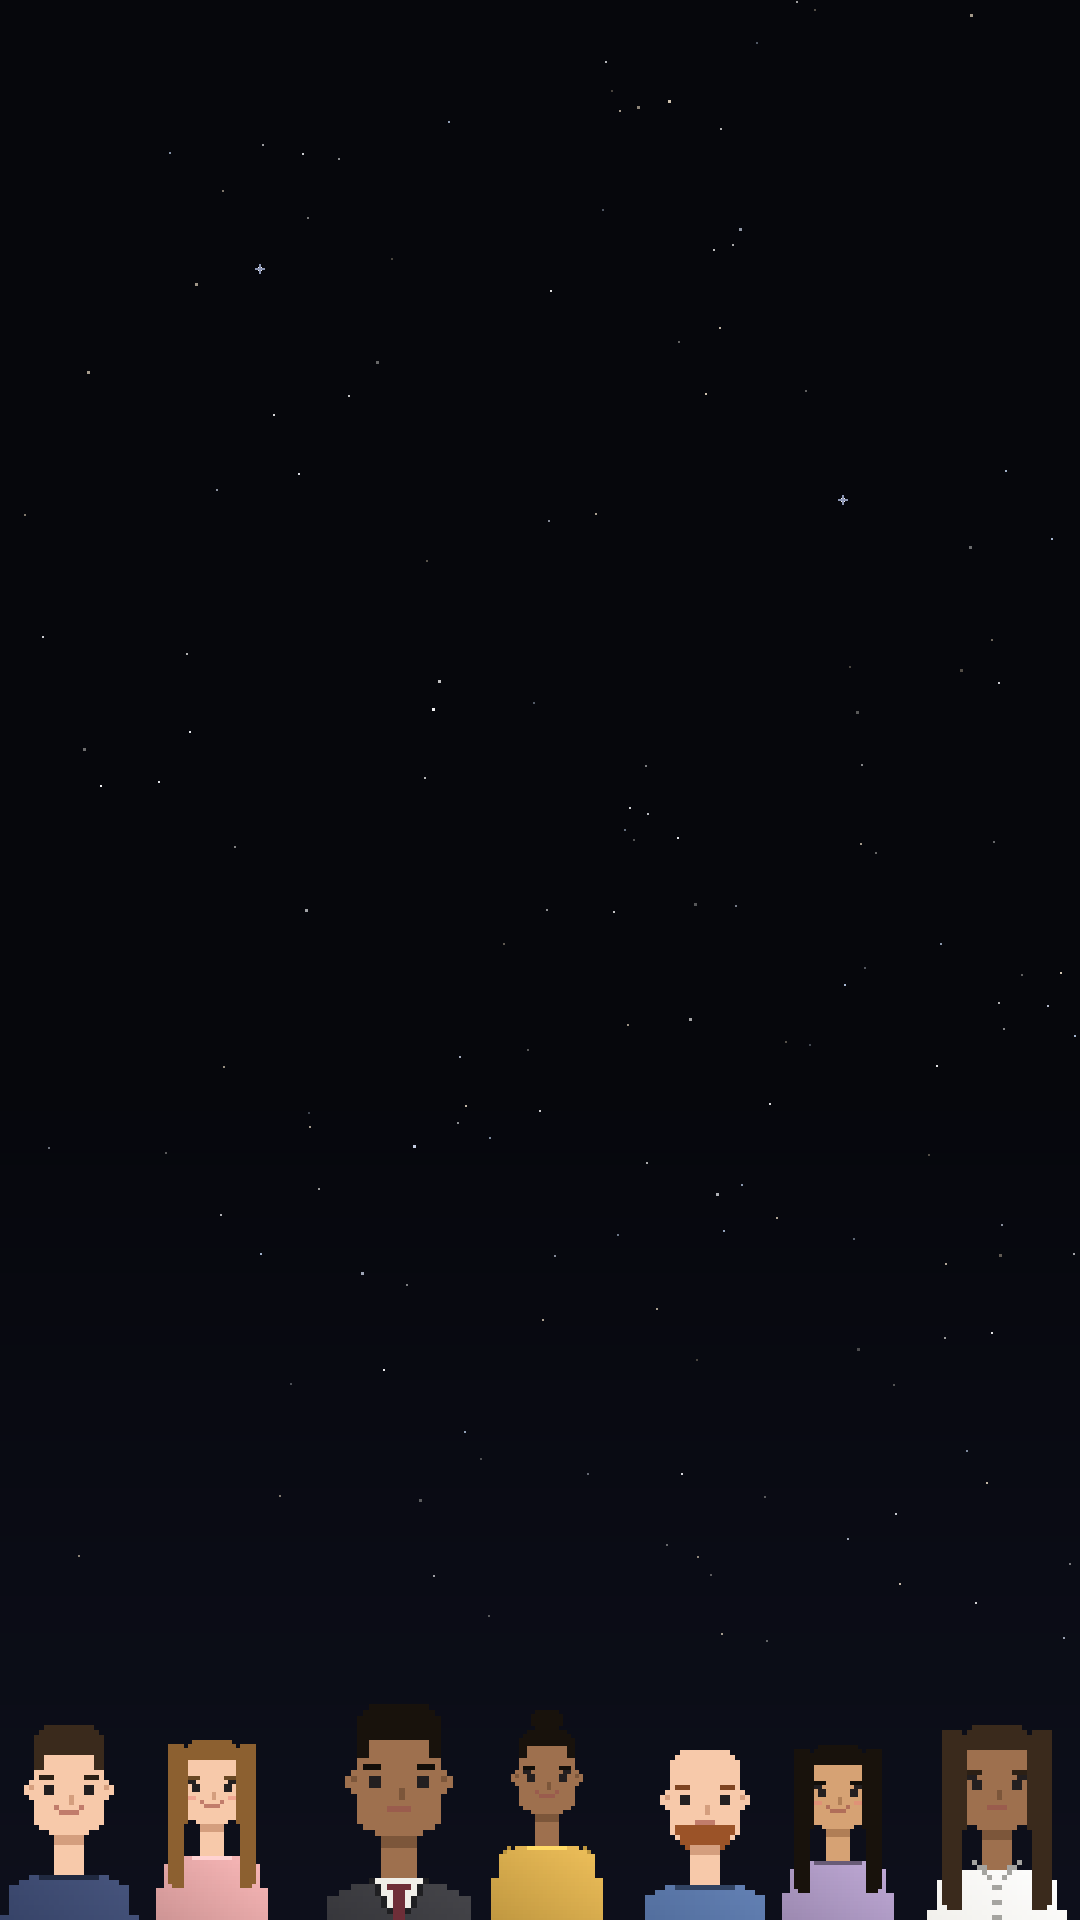
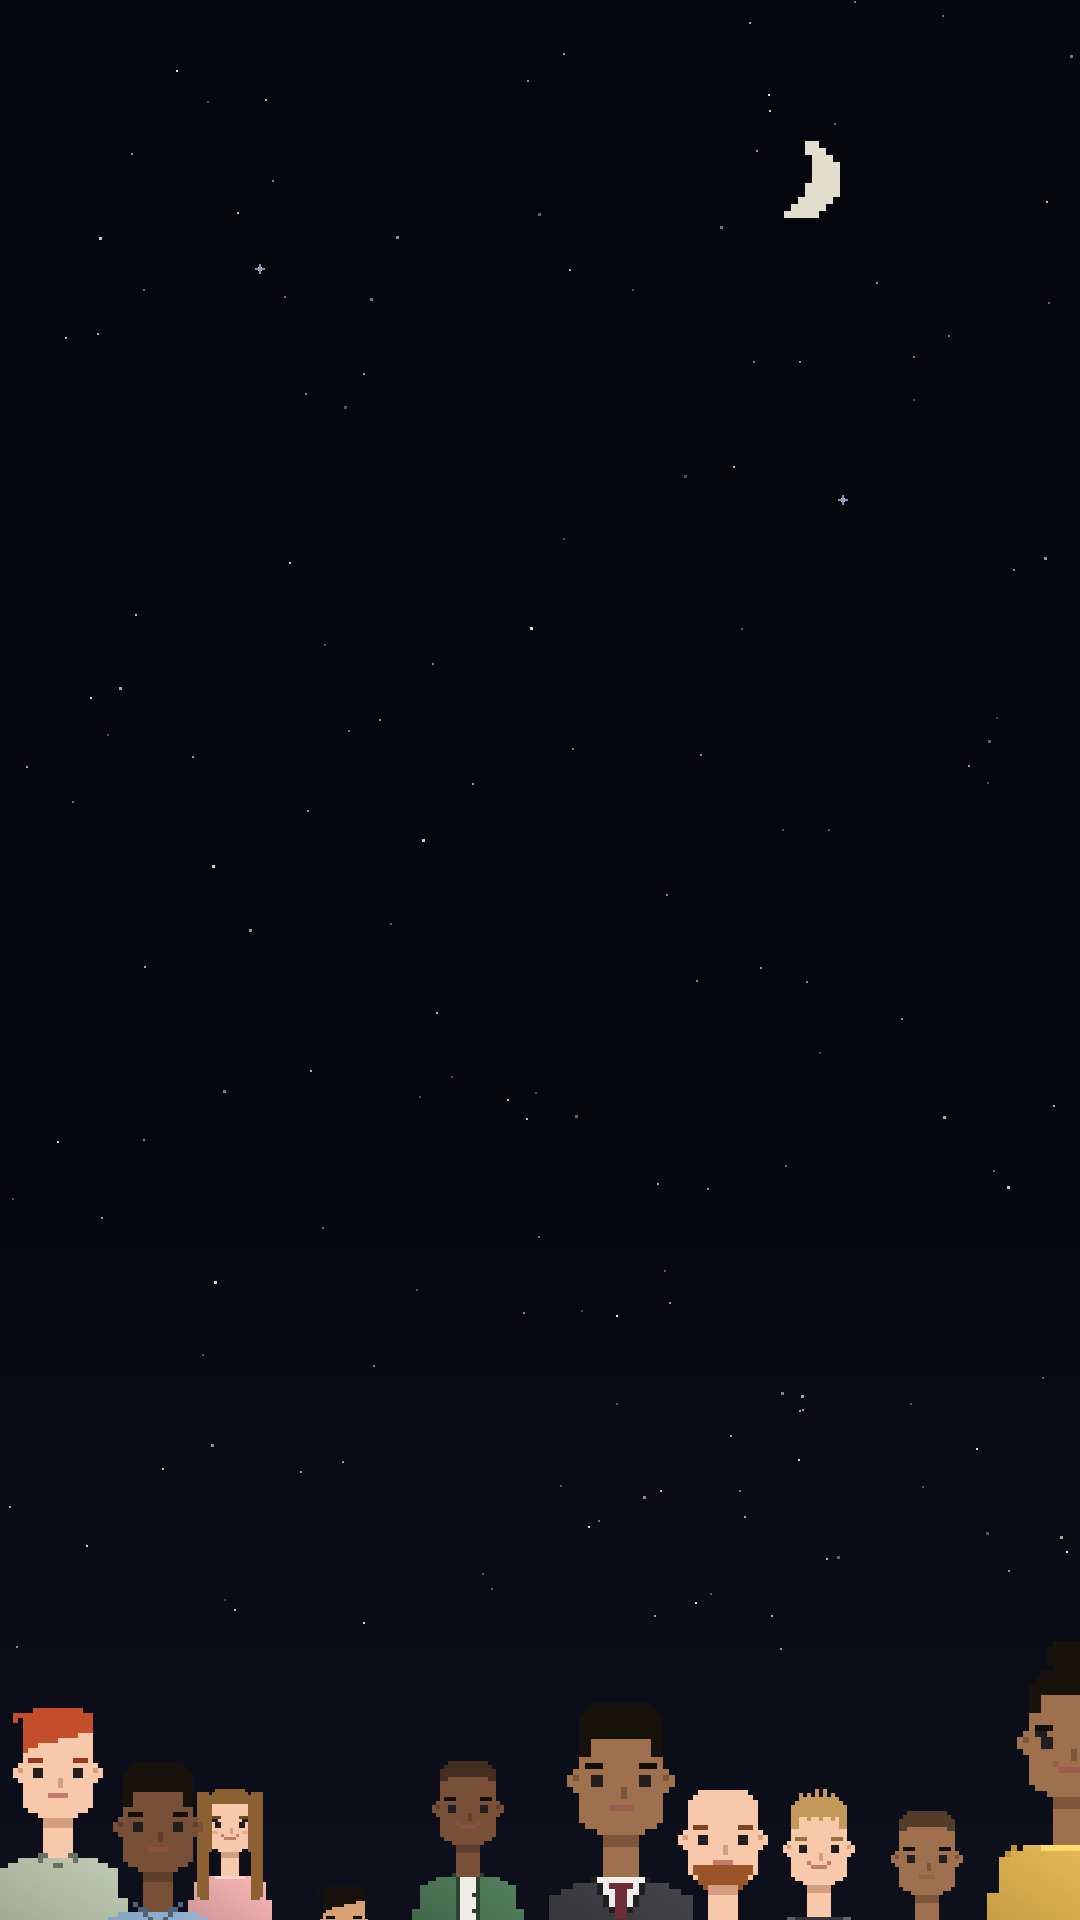
auth: split-screen desktop layout + imperfect crowds
Desktop (>=1024px) goes modern split-screen: wordmark top-left, the form in a
left column on plain night-black, and the Pixie crowd living in a rounded,
bordered art panel on the right ("jailed in a square") — a fresh 1800x1800
composition with a dense 14-person crowd at jittered heights, a chunky pixel
crescent moon, a faint shooting star and sparkle stars. Tablets keep the
full-bleed landscape image; phones get a denser 10-person portrait version with
random heights (per feedback: crowded + imperfect beats symmetric).

Changed region(s): [[0.3056, 0.875, 1.0, 1.0], [0.0, 0.875, 0.2444, 1.0], [0.7333, 0.0625, 0.7944, 0.125]]

diff --git a/apps/web/src/app/(auth)/layout.tsx b/apps/web/src/app/(auth)/layout.tsx
@@ -2,10 +2,19 @@ import Link from 'next/link';
 
 export default function AuthLayout({ children }: { children: React.ReactNode }) {
   return (
-    <div className="auth-bg flex min-h-screen items-center justify-center bg-[#07070c] p-6">
-      <div className="w-full max-w-sm">
-        <Link href="/" className="mb-6 block text-center text-2xl font-semibold tracking-tight text-white drop-shadow-[0_1px_4px_rgba(0,0,0,0.8)]">opersona.me</Link>
-        <div className="card bg-white/95 backdrop-blur-sm dark:bg-neutral-900/95">{children}</div>
+    <div className="relative min-h-screen bg-[#07070c] lg:flex">
+      {/* desktop wordmark, top-left */}
+      <Link href="/" className="absolute left-8 top-6 z-10 hidden text-xl font-semibold tracking-tight text-white lg:block">opersona.me</Link>
+      {/* form column: whole screen on mobile/tablet, left column on desktop */}
+      <div className="auth-bg flex min-h-screen w-full items-center justify-center p-6 lg:w-[44%] lg:flex-none">
+        <div className="w-full max-w-sm">
+          <Link href="/" className="mb-6 block text-center text-2xl font-semibold tracking-tight text-white drop-shadow-[0_1px_4px_rgba(0,0,0,0.8)] lg:hidden">opersona.me</Link>
+          <div className="card bg-white/95 backdrop-blur-sm dark:bg-neutral-900/95">{children}</div>
+        </div>
+      </div>
+      {/* the Pixie crowd, framed — desktop only */}
+      <div className="hidden lg:flex lg:min-h-screen lg:flex-1 lg:p-5 lg:pl-0">
+        <div className="auth-panel w-full self-stretch overflow-hidden rounded-3xl border border-neutral-800/80" />
       </div>
     </div>
   );

diff --git a/apps/web/src/app/globals.css b/apps/web/src/app/globals.css
@@ -124,3 +124,14 @@ code, kbd { overflow-wrap: anywhere; }
 @media (max-width: 640px), (max-aspect-ratio: 3/4) {
   .auth-bg { background-image: url('/auth-bg-mobile.png'); }
 }
+
+/* ≥lg the form column goes plain (the crowd lives in the right-hand panel) */
+@media (min-width: 1024px) {
+  .auth-bg { background-image: none; }
+}
+.auth-panel {
+  background-image: url('/auth-panel.png');
+  background-size: cover;
+  background-position: center bottom;
+  image-rendering: pixelated;
+}
